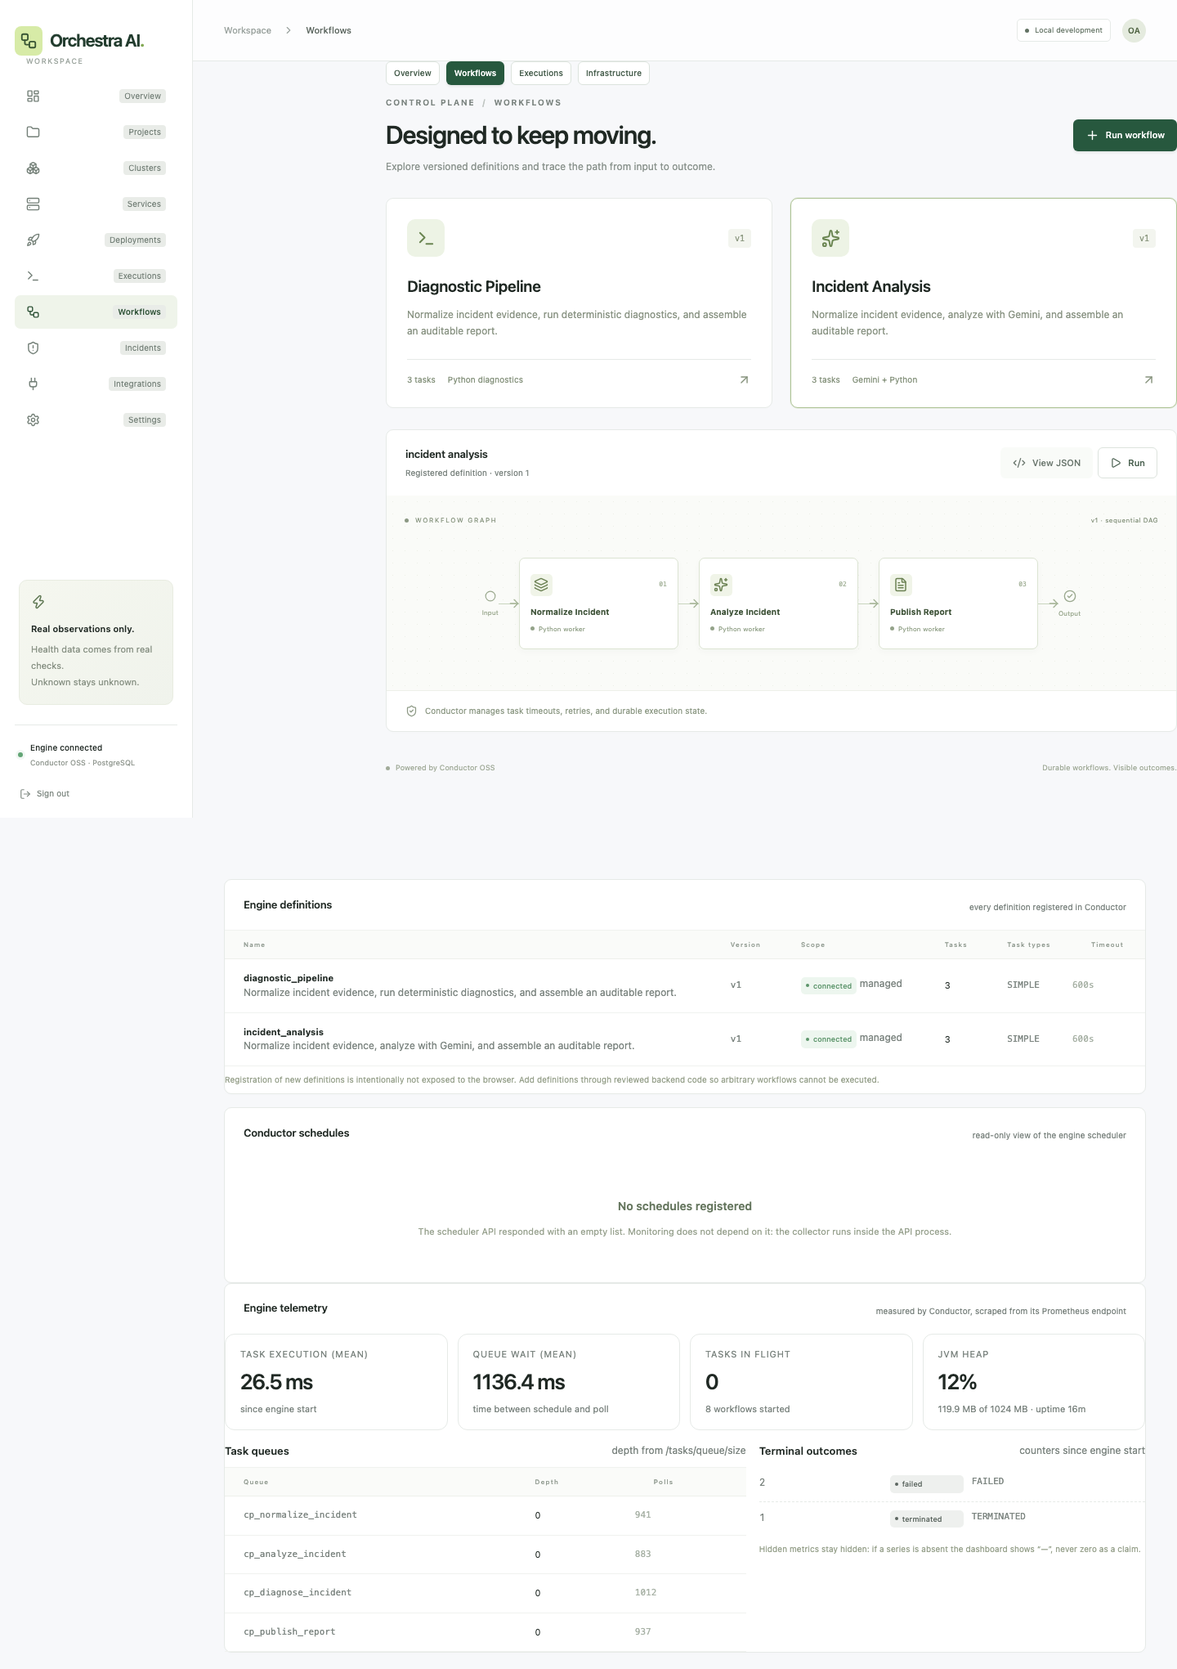
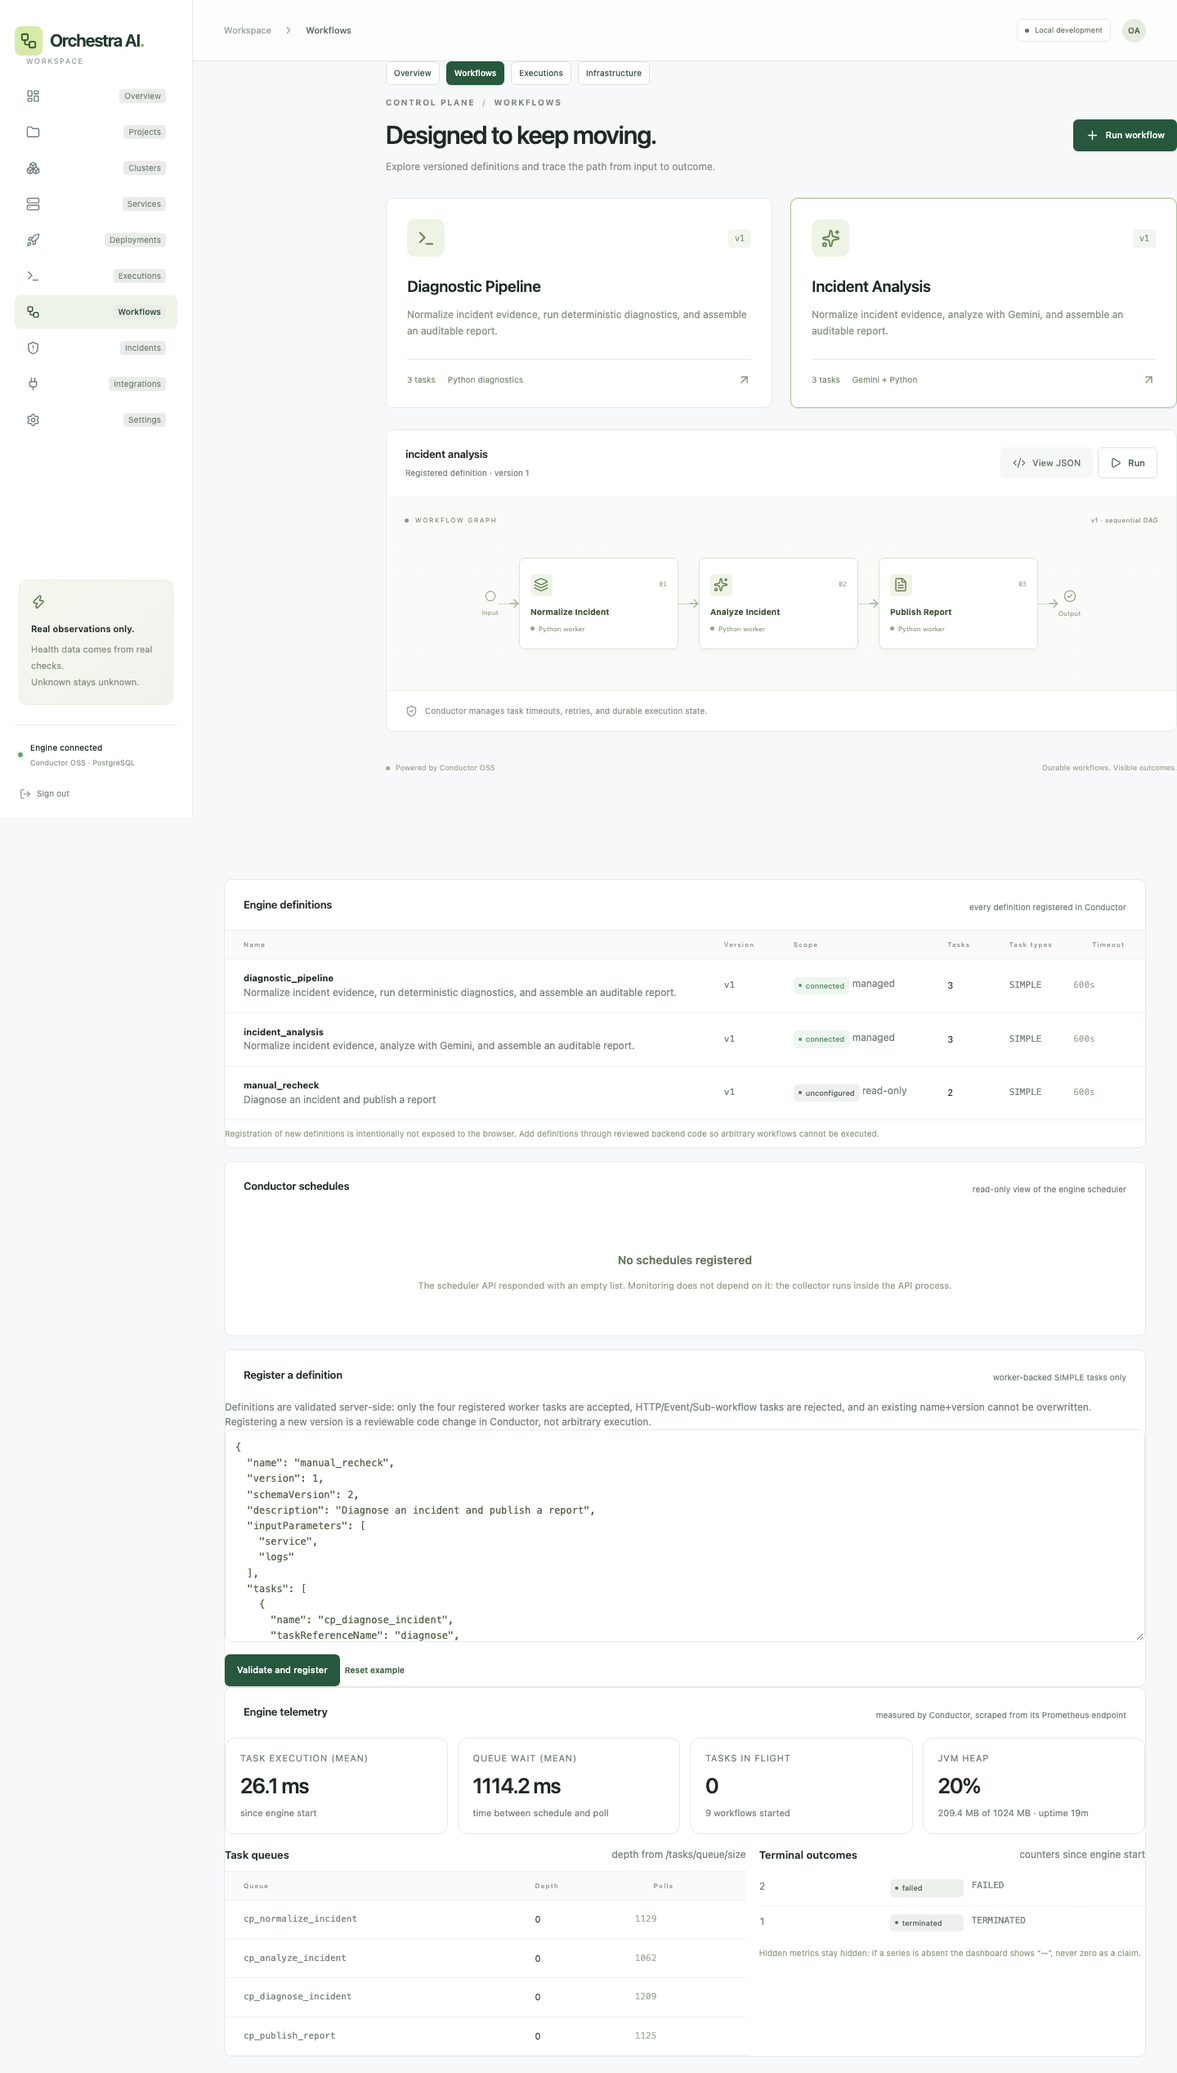
Add controlled workflow-definition registration
- POST /api/workflows/definitions with narrow server-side validation:
  worker-backed SIMPLE tasks only, bounded name/version/tasks/inputs,
  unique task references, 409 on existing name+version, audited
- Validated JSON editor on the Workflows page; catalog reloads on success
- Verified against the real engine: manual_recheck v1 registered and appeared
  in the catalog, duplicate rejected with 409, HTTP task rejected with 422
- Docs updated to describe the safe subset and its limits

diff --git a/frontend/components/pages/workflow-catalog.tsx b/frontend/components/pages/workflow-catalog.tsx
@@ -1,7 +1,35 @@
 "use client";
 
+import { useState } from "react";
+import { api, ApiError } from "@/lib/api";
 import { useApi } from "@/lib/hooks";
+import { Button } from "@/components/ui/button";
 import { Empty, ErrorBanner, Loading, Status } from "@/components/resource-ui";
+
+const EXAMPLE = {
+  name: "manual_recheck",
+  version: 1,
+  schemaVersion: 2,
+  description: "Diagnose an incident and publish a report",
+  inputParameters: ["service", "logs"],
+  tasks: [
+    {
+      name: "cp_diagnose_incident",
+      taskReferenceName: "diagnose",
+      type: "SIMPLE",
+      inputParameters: { incident: "${workflow.input.incident}" },
+    },
+    {
+      name: "cp_publish_report",
+      taskReferenceName: "report",
+      type: "SIMPLE",
+      inputParameters: {
+        incident: "${workflow.input.incident}",
+        analysis: "${diagnose.output}",
+      },
+    },
+  ],
+};
 
 type CatalogEntry = {
   name: string;
@@ -19,6 +47,32 @@ type Schedule = Record<string, unknown>;
 export default function WorkflowCatalog() {
   const catalog = useApi<CatalogEntry[]>("workflows/catalog");
   const schedules = useApi<Schedule[]>("schedules");
+  const [draft, setDraft] = useState(JSON.stringify(EXAMPLE, null, 2));
+  const [message, setMessage] = useState<string | null>(null);
+  const [busy, setBusy] = useState(false);
+
+  async function register() {
+    setBusy(true);
+    setMessage(null);
+    try {
+      let parsed: unknown;
+      try {
+        parsed = JSON.parse(draft);
+      } catch {
+        throw new Error("The editor does not contain valid JSON");
+      }
+      const result = await api<{ name: string; version: number }>("workflows/definitions", {
+        method: "POST",
+        body: JSON.stringify({ definition: parsed }),
+      });
+      setMessage(`Registered ${result.name} v${result.version}`);
+      await catalog.reload();
+    } catch (exception) {
+      setMessage((exception as ApiError).message);
+    } finally {
+      setBusy(false);
+    }
+  }
 
   return (
     <div className="stack">
@@ -98,6 +152,44 @@ export default function WorkflowCatalog() {
             ))}
           </div>
         )}
+      </section>
+
+      <section className="panel">
+        <div className="panel-heading">
+          <h2>Register a definition</h2>
+          <span className="subtle">worker-backed SIMPLE tasks only</span>
+        </div>
+        <p className="subtle">
+          Definitions are validated server-side: only the four registered worker tasks are
+          accepted, HTTP/Event/Sub-workflow tasks are rejected, and an existing name+version
+          cannot be overwritten. Registering a new version is a reviewable code change in
+          Conductor, not arbitrary execution.
+        </p>
+        <ErrorBanner message={message} />
+        <textarea
+          aria-label="Workflow definition JSON"
+          value={draft}
+          onChange={(event) => setDraft(event.target.value)}
+          spellCheck={false}
+          style={{
+            width: "100%",
+            minHeight: 260,
+            fontFamily: "ui-monospace, SFMono-Regular, Menlo, monospace",
+            fontSize: 12,
+            border: "1px solid var(--line)",
+            borderRadius: 8,
+            padding: 12,
+            background: "#fff",
+          }}
+        />
+        <div className="inline-actions" style={{ marginTop: 10 }}>
+          <Button onClick={() => void register()} disabled={busy}>
+            {busy ? "Validating…" : "Validate and register"}
+          </Button>
+          <button className="text-button" onClick={() => setDraft(JSON.stringify(EXAMPLE, null, 2))}>
+            Reset example
+          </button>
+        </div>
       </section>
     </div>
   );

diff --git a/backend/app/api_resources.py b/backend/app/api_resources.py
@@ -186,6 +186,20 @@ class ConnectorPatch(BaseModel):
     token: str | None = Field(default=None, min_length=8, max_length=500)
 
 
+SAFE_TASK_TYPES = {'SIMPLE'}
+SAFE_DEFINITION_KEYS = {
+    'name', 'version', 'schemaVersion', 'description', 'ownerEmail', 'timeoutPolicy',
+    'timeoutSeconds', 'restartable', 'inputParameters', 'outputParameters', 'tasks',
+}
+NAME = __import__('re').compile(r'^[a-z][a-z0-9_]{2,60}$')
+REFERENCE = __import__('re').compile(r'^[A-Za-z][A-Za-z0-9_]{0,40}$')
+
+
+class DefinitionIn(BaseModel):
+    model_config = ConfigDict(extra='forbid')
+    definition: dict
+
+
 class AgentObservationIn(BaseModel):
     model_config = ConfigDict(extra='forbid', str_strip_whitespace=True)
     agent_key: str = Field(min_length=1, max_length=80)
@@ -566,6 +580,71 @@ def build_router(settings, store: Store, auth, engine) -> APIRouter:
         updated = store.apply_observation(service, observation)
         store.recompute_project_status(service['project_id'])
         return {'service_id': service['id'], 'status': updated['current_status']}
+
+    # -- controlled workflow registration ----------------------------------
+    def validate_definition(definition: dict) -> dict:
+        """Only safe, worker-backed SIMPLE workflows may be registered from the API.
+
+        HTTP/EVENT/SUB_WORKFLOW tasks are rejected so registration can never become an
+        SSRF or arbitrary-execution primitive.
+        """
+        from .definitions import TASK_NAMES
+
+        if not isinstance(definition, dict):
+            raise HTTPException(422, 'definition must be a JSON object')
+        unknown = set(definition) - SAFE_DEFINITION_KEYS
+        if unknown:
+            raise HTTPException(422, f'unsupported definition keys: {sorted(unknown)}')
+        name = definition.get('name')
+        if not isinstance(name, str) or not NAME.match(name):
+            raise HTTPException(422, 'name must be lowercase letters, digits or underscore')
+        if not isinstance(definition.get('version'), int) or not 1 <= definition['version'] <= 100:
+            raise HTTPException(422, 'version must be an integer between 1 and 100')
+        if definition.get('schemaVersion') != 2:
+            raise HTTPException(422, 'schemaVersion must be 2')
+        tasks = definition.get('tasks')
+        if not isinstance(tasks, list) or not 1 <= len(tasks) <= 25:
+            raise HTTPException(422, 'tasks must contain between 1 and 25 entries')
+        references = set()
+        for task in tasks:
+            if not isinstance(task, dict):
+                raise HTTPException(422, 'each task must be an object')
+            task_type = task.get('type', 'SIMPLE')
+            if task_type not in SAFE_TASK_TYPES:
+                raise HTTPException(422, f'task type {task_type!r} is not registrable here')
+            if task.get('name') not in TASK_NAMES:
+                raise HTTPException(
+                    422, f"task {task.get('name')!r} has no worker; only "
+                         f"{sorted(TASK_NAMES)} can run")
+            reference = task.get('taskReferenceName')
+            if not isinstance(reference, str) or not REFERENCE.match(reference) or reference in references:
+                raise HTTPException(422, 'taskReferenceName must be unique and alphanumeric')
+            references.add(reference)
+        parameters = definition.get('inputParameters', [])
+        if not isinstance(parameters, list) or len(parameters) > 20 or \
+                not all(isinstance(item, str) and NAME.match(item) for item in parameters):
+            raise HTTPException(422, 'inputParameters must be lowercase identifiers')
+        if not isinstance(definition.get('outputParameters', {}), dict):
+            raise HTTPException(422, 'outputParameters must be an object')
+        definition.setdefault('ownerEmail', 'operator@conductor.local')
+        definition.setdefault('restartable', True)
+        definition.setdefault('timeoutPolicy', 'TIME_OUT_WF')
+        definition.setdefault('timeoutSeconds', 600)
+        return definition
+
+    @router.post('/workflows/definitions', status_code=201, dependencies=[owner])
+    async def register_definition(body: DefinitionIn):
+        definition = validate_definition(body.definition)
+        catalog = await engine.request('GET', 'metadata/workflow')
+        for existing in catalog or []:
+            if existing.get('name') == definition['name'] and \
+                    existing.get('version') == definition['version']:
+                raise HTTPException(409, 'That name and version already exists; register a new version')
+        await engine.request('PUT', 'metadata/workflow', json=[definition])
+        store.audit('owner', 'workflow.register', 'workflow',
+                    f"{definition['name']}@{definition['version']}",
+                    {'tasks': [t['name'] for t in definition['tasks']]})
+        return {'registered': True, 'name': definition['name'], 'version': definition['version']}
 
     # -- audit and settings ------------------------------------------------
     @router.get('/audit', dependencies=[owner])

diff --git a/backend/tests/test_resources.py b/backend/tests/test_resources.py
@@ -430,3 +430,90 @@ task_poll_total{taskType="unrelated"} 99.0
     assert summary['heap_max_mb'] == 500.0
     assert summary['task_poll_total'] == {'cp_normalize_incident': 7}
     assert summary['uptime_seconds'] == 123.5
+
+
+def _definition(**overrides):
+    definition = {
+        'name': 'manual_recheck',
+        'version': 1,
+        'schemaVersion': 2,
+        'description': 'Re-run deterministic diagnostics and publish a report',
+        'inputParameters': ['service', 'logs'],
+        'tasks': [
+            {'name': 'cp_diagnose_incident', 'taskReferenceName': 'diagnose', 'type': 'SIMPLE',
+             'inputParameters': {'incident': '${workflow.input.incident}'}},
+            {'name': 'cp_publish_report', 'taskReferenceName': 'report', 'type': 'SIMPLE',
+             'inputParameters': {'incident': '${workflow.input.incident}',
+                                 'analysis': '${diagnose.output}'}},
+        ],
+    }
+    definition.update(overrides)
+    return definition
+
+
+@requires_db
+def test_register_definition_accepts_safe_worker_workflows(monkeypatch):
+    from unittest.mock import AsyncMock
+    from app.main import engine
+
+    calls = []
+
+    async def fake_request(method, path, **kwargs):
+        calls.append((method, path, kwargs))
+        return [] if method == 'GET' else None
+
+    monkeypatch.setattr(engine, 'request', fake_request)
+    response = client.post('/api/workflows/definitions', headers=HEADERS,
+                           json={'definition': _definition()})
+    assert response.status_code == 201, response.text
+    assert response.json()['name'] == 'manual_recheck'
+    put = [c for c in calls if c[0] == 'PUT']
+    assert put and put[0][1] == 'metadata/workflow'
+    sent = put[0][2]['json'][0]
+    assert sent['timeoutSeconds'] == 600 and sent['timeoutPolicy'] == 'TIME_OUT_WF'
+    assert any(entry['action'] == 'workflow.register' for entry in db.query('SELECT action FROM audit_log'))
+
+
+@requires_db
+def test_register_definition_rejects_unsafe_or_unknown_tasks(monkeypatch):
+    from app.main import engine
+
+    async def fake_request(method, path, **kwargs):
+        return []
+
+    monkeypatch.setattr(engine, 'request', fake_request)
+
+    http_task = _definition(tasks=[
+        {'name': 'cp_diagnose_incident', 'taskReferenceName': 'diagnose', 'type': 'HTTP'},
+    ])
+    assert client.post('/api/workflows/definitions', headers=HEADERS,
+                       json={'definition': http_task}).status_code == 422
+
+    unknown_worker = _definition(tasks=[
+        {'name': 'shell_command', 'taskReferenceName': 'run', 'type': 'SIMPLE'},
+    ])
+    assert client.post('/api/workflows/definitions', headers=HEADERS,
+                       json={'definition': unknown_worker}).status_code == 422
+
+    assert client.post('/api/workflows/definitions', headers=HEADERS, json={
+        'definition': _definition(extra_key='nope'),
+    }).status_code == 422
+    assert client.post('/api/workflows/definitions', headers=HEADERS, json={
+        'definition': _definition(version=0),
+    }).status_code == 422
+    assert client.post('/api/workflows/definitions', json={'definition': _definition()}).status_code == 401
+
+
+@requires_db
+def test_register_definition_rejects_duplicate_version(monkeypatch):
+    from app.main import engine
+
+    async def fake_request(method, path, **kwargs):
+        if method == 'GET':
+            return [{'name': 'manual_recheck', 'version': 1}]
+        return None
+
+    monkeypatch.setattr(engine, 'request', fake_request)
+    response = client.post('/api/workflows/definitions', headers=HEADERS,
+                           json={'definition': _definition()})
+    assert response.status_code == 409

diff --git a/README.md b/README.md
@@ -26,7 +26,7 @@ Orkes Conductor is the commercial product around an open-source engine. This pro
 - **Incidents**: automatic open/deduplicate/auto-resolve, acknowledgment, notes, manual resolution and evidence snapshots from the triggering check.
 - **Alerts**: webhook delivery with severity filters, cooldowns and per-delivery records. Nothing is sent until you configure an explicit target.
 - **Integrations**: Railway (GraphQL inventory), GitHub (repository, commits, workflow runs → deployments) and an agent-ingest path for local Docker. Credentials are sealed with AES-GCM and never returned to the browser.
-- **Conductor operations**: execution history and filtering, task timelines, failed-task inspection, worker polling, manual retry/termination, definition browser, engine-wide definition catalog and a read-only schedule view.
+- **Conductor operations**: execution history and filtering, task timelines, failed-task inspection, worker polling, manual retry/termination, definition browser, engine-wide catalog, a read-only schedule view, and **controlled definition registration** restricted to worker-backed SIMPLE tasks.
 - **Deterministic diagnostics**: start the existing `diagnostic_pipeline` from any incident; its evidence summary is passed as untrusted input.
 - **Single-owner auth**: password or master API token exchanged for an opaque, HTTP-only, server-side session. Sessions are revocable; the master token never reaches the browser.
 - **Honest telemetry**: unknown stays unknown. If a provider or a check cannot produce evidence, the service is not reported as down.
@@ -88,7 +88,7 @@ The dashboard reads that endpoint plus `/api/tasks/queue/size` and shows queue d
 
 Task retries are capped at two for deterministic workers (3 s delay, 75 s response timeout, 90 s task timeout, 600 s workflow timeout). Gemini has **zero automatic retries** and a single HTTP attempt so an ambiguous failure never becomes a second billable call.
 
-Definitions are registered by the API at startup. Arbitrary user-supplied definitions are deliberately **not** accepted from the browser: adding one requires reviewed backend code.
+Definitions are registered by the API at startup. Additional definitions can be registered from the Workflows page or `POST /api/workflows/definitions`, validated server-side: only the four registered worker tasks, only `SIMPLE` operators, no `HTTP`/`EVENT`/`SUB_WORKFLOW` tasks, no overwriting an existing name+version. Registration therefore cannot become an arbitrary-execution or SSRF primitive. The dashboard starts the two managed workflows; other registered definitions are available to services and workers.
 
 ## Integrations
 
@@ -144,7 +144,7 @@ The backend suite includes an end-to-end cycle on deterministic local infrastruc
 - Logical clusters are groupings, not discovered Kubernetes/compute clusters. Provider-discovered infrastructure is not modelled yet.
 - Railway's inventory query is unverified without credentials, and provider-reported per-service health is not mapped to service status.
 - Alerts support webhooks only (email/Slack are extension points).
-- Workflow definitions cannot be registered from the UI; new definitions ship as reviewed code.
+- Definition registration is limited to combinations of the four built-in worker tasks. To add a new task type you must ship worker code; the engine will not execute anything else from this UI.
 - The collector runs inside the API process. Scaling the API horizontally is safe (advisory lock) but the collector is not a separate worker fleet.
 - Deployment is manual; no Railway resources were changed by this work.
 

diff --git a/docs/ARCHITECTURE.md b/docs/ARCHITECTURE.md
@@ -117,7 +117,9 @@ Task definitions: `timeoutSeconds` 90, `responseTimeoutSeconds` 75, `timeoutPoli
 | `cp_analyze_incident` | One Gemini request with a JSON schema; failures surface only type + HTTP status | Pure, but billable |
 | `cp_publish_report` | Assembles the report with `generated_at` and `requires_human_review: true` | Pure |
 
-Definitions are installed by the API lifespan hook (idempotent `POST metadata/taskdefs`, `PUT metadata/workflow`), retried for 180 s on 502/503. Startup fails if registration cannot complete. The engine-wide catalog is read-only; arbitrary definitions are never accepted from the browser.
+Definitions are installed by the API lifespan hook (idempotent `POST metadata/taskdefs`, `PUT metadata/workflow`), retried for 180 s on 502/503. Startup fails if registration cannot complete.
+
+Additional definitions may be registered through `POST /api/workflows/definitions`. Validation is intentionally narrow: name/schema/version bounds, 1–25 tasks, `type` restricted to `SIMPLE`, task names restricted to the four worker-backed definitions, unique `taskReferenceName`, bounded `inputParameters`, and a 409 when the name+version already exists. `HTTP`, `EVENT`, `SUB_WORKFLOW` and dynamic operators are rejected, so the endpoint cannot be used to call internal services or execute arbitrary code. Registration is audited.
 
 ## API surface
 
@@ -138,6 +140,7 @@ Definitions are installed by the API lifespan hook (idempotent `POST metadata/ta
 | `POST /api/agent/observations` | Agent ingest (connector token, not an owner session) |
 | `GET /api/audit`, `GET /api/settings` | Audit trail, read-only runtime configuration |
 | `GET /api/workflows`, `GET /api/workflows/catalog`, `GET /api/schedules` | Managed definitions, engine-wide catalog, read-only schedules |
+| `POST /api/workflows/definitions` | Validated registration of worker-backed SIMPLE definitions |
 | `POST /api/executions`, `GET /api/executions`, `GET /api/executions/{id}`, `…/retry`, `…/terminate` | Execution operations |
 | `GET /api/infrastructure` | Engine latency, worker poll ages, Gemini state, real database probe |
 | `GET /healthz` | Unauthenticated liveness |

diff --git a/docs/PROGRESS.md b/docs/PROGRESS.md
@@ -140,6 +140,8 @@ At the initial delivery checkpoint, no remote was configured. The Orchestra AI r
 - Verified backup and restore locally: both databases dumped (56 KB conductor, 16 KB orchestra), `gzip -t` passed, restore into `orchestra_restore` produced 1 project, 2 services and 1 migration row, then the drill database was dropped. No live data was touched.
 - Fixed a real responsive defect the new panels exposed: a wide table widened the page to 412 px at a 390 px viewport. `.content` now clips horizontal overflow so wide tables scroll inside `.table-scroll` instead of moving the page. The mobile Playwright assertion passes again, and `docs/screenshots/workflows.png` now captures the catalog plus engine telemetry.
 
+- Added controlled workflow-definition registration (`POST /api/workflows/definitions` + a validated editor on the Workflows page). Validation accepts only worker-backed `SIMPLE` tasks, rejects `HTTP`/`EVENT`/`SUB_WORKFLOW`, enforces unique reference names, bounds versions and inputs, and refuses to overwrite an existing name+version. Verified against the real engine: `manual_recheck` v1 registered, appeared in the catalog, a duplicate returned 409, and an `HTTP` task was rejected with 422.
+
 ### Decisions recorded
 
 - Railway is retained only as an existing demonstration; the documented target is one free VM (Oracle Always Free A1: 2 OCPU / 12 GB / 200 GB, verified against Oracle's current Always Free page). Tailscale (free) or Caddy + DuckDNS provide access without buying a domain. Render/Fly no longer offer a usable free always-on tier.
